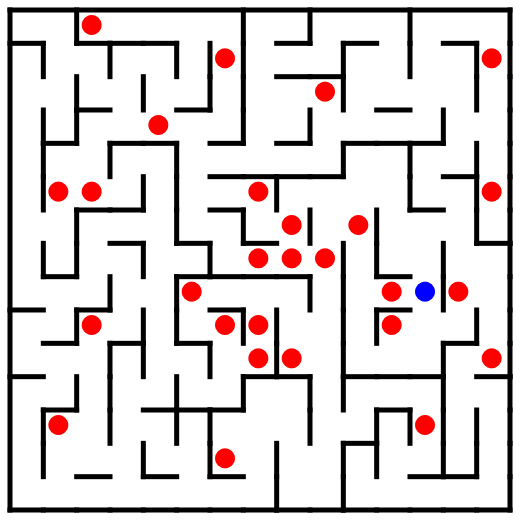
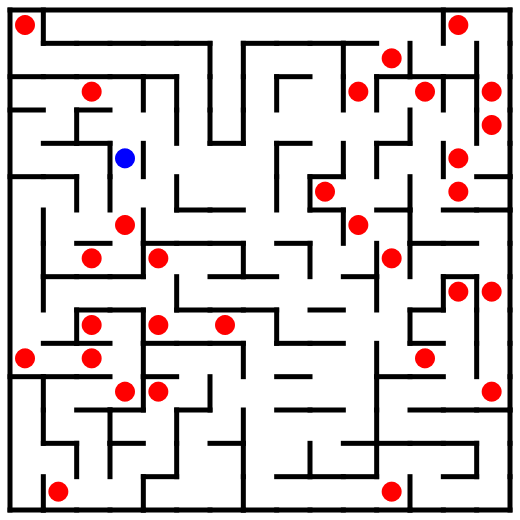
Fixed error with updating the current position

diff --git a/main.py b/main.py
@@ -63,6 +63,13 @@ def main():
     plt.draw()
     plt.show()
     """
+
+    for i in range(ny):
+        for j in range(nx):
+            cell = maze.cell_at(i, j)
+            # print(cell.x, cell.y)
+            # print(cell.get_id())
+
     graph = generate_graph(maze, nx, ny)
     print(maze.get_current_position())
     print(maze.get_objective_position())
@@ -71,17 +78,20 @@ def main():
     destination = maze.get_objective_position()
     path = graph.dijsktra(source=maze.cell_at(source[0], source[1]).get_id(),
                           destination=maze.cell_at(destination[0], destination[1]).get_id())
-    print(path)
+    # print(path)
     # print(graph)
+    movements = []
     for i in range(len(path)):
-        x, y = path[i][:2]
-        path[i] = (floor(x/nx), y % ny)
+        positions = path[i][:2]
+        u, v = maze.get_position_by_id(positions[0]), maze.get_position_by_id(positions[1])
+        movements.append([u, v])
+        # path[i] = (x % nx, floor(y / ny))
 
-    print(path)
+    # print(path)
 
-    for p in path:
-        new_position = tuple(p[:2])
-        # print(new_position)
+    for p in movements:
+        # new_position = tuple(p[:2])
+        new_position = p[1]
         maze.update_current_position(new_position)
         maze.write_svg(svg_name)
         draw = svg2rlg(svg_name)
@@ -93,6 +103,7 @@ def main():
         time.sleep(0.2)
 
     plt.show()
+    plt.close()
 
 
 if __name__ == "__main__":

diff --git a/maze.py b/maze.py
@@ -23,6 +23,9 @@ class Maze:
         self.ix, self.iy = ix, iy
         self.svg_name = "maze.svg"
         self.maze_map = [[Cell(x, y, maze_size=nx) for y in range(ny)] for x in range(nx)]
+        self.__map_ids = {}
+        self.__init_map_ids()
+
         self.__current_position = None
         self.__objective_position = None
 
@@ -34,6 +37,12 @@ class Maze:
 
         # Generating the traps
         self.__generate_random_traps(max(nx, ny)*2)
+
+    def __init_map_ids(self):
+        for i in range(self.nx):
+            for j in range(self.ny):
+                cell = self.cell_at(i, j)
+                self.__map_ids[cell.get_id()] = cell.get_position()
 
     def __generate_random_traps(self, traps):
         for i in range(traps):
@@ -62,6 +71,9 @@ class Maze:
 
     def get_current_position(self):
         return self.__current_position
+
+    def get_position_by_id(self, cell_id):
+        return self.__map_ids[cell_id]
 
     def update_current_position(self, coordinates):
         x, y = self.__current_position

diff --git a/Cell.py b/Cell.py
@@ -21,13 +21,18 @@ class Cell:
 
         self.__size_of_maze = maze_size
         self.__id = (x*self.__size_of_maze) + y
+        # self.__id = (y*self.__size_of_maze) + self.x
 
     def change_size_of_maze(self, size):
         self.__size_of_maze = size
         self.__id = (self.x*self.__size_of_maze) + self.y
+        # self.__id = (y * self.__size_of_maze) + self.x
 
     def get_id(self):
         return self.__id
+
+    def get_position(self):
+        return [self.x, self.y]
 
     def has_all_walls(self):
         """Does this cell still have all its walls?"""
